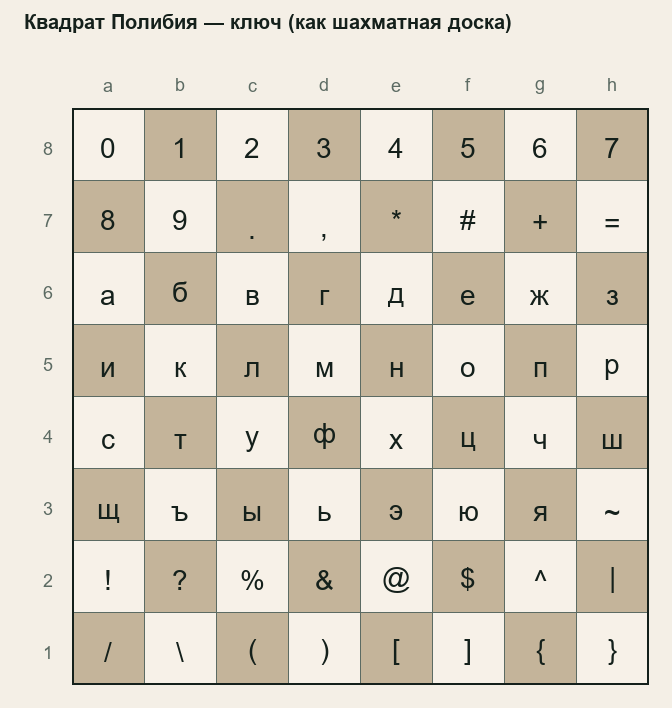
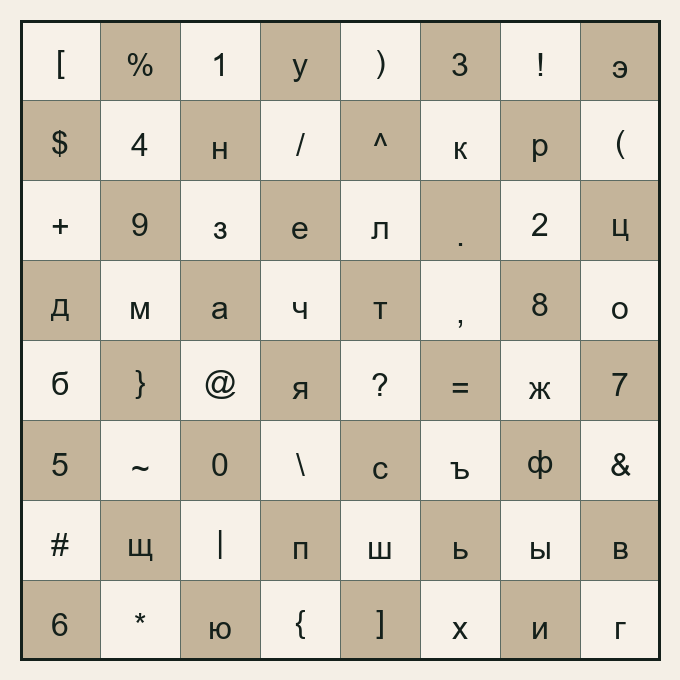
Harder Ozerki board: shuffled, unlabeled, no spoilers

diff --git a/js/quests.js b/js/quests.js
@@ -97,12 +97,8 @@ window.QUESTS = [
     type: "quiz",
     title: "Загадка 2 — куда ехать",
     question:
-      "Координаты следующей точки зашифрованы квадратом Полибия. Ключ — шахматная доска (как у белых: горизонталь 1 внизу, вертикали a–h слева направо).\n\n" +
-      "Каждая клетка — один символ. По списку полей снизу соберите строку координат (без пробелов), вбейте в карты.\n\n" +
-      '<img class="quest-img polybius-img" src="images/polybius-board.png" alt="Квадрат Полибия — шахматная доска" />\n\n' +
-      "Шифр (поля по порядку):\n" +
-      "<strong>g8 a8 c7 a8 e8 c8 b8 g8 b7 d7 d8 a8 c7 d8 b8 a8 g8 d8 b8</strong>\n\n" +
-      "В ответ — координаты одной строкой (как получились после расшифровки).",
+      '<img class="quest-img polybius-img" src="images/polybius-board.png" alt="" />\n\n' +
+      "<strong>a1 c3 f6 c3 b7 g6 c8 a1 b6 f5 f8 c3 f6 f8 c8 c3 a1 f8 c8</strong>",
     answer: "60.042169,30.310631",
     aliases: [
       "60.042169, 30.310631",
